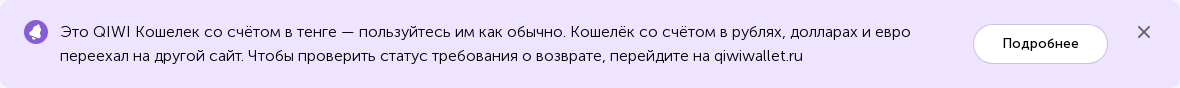
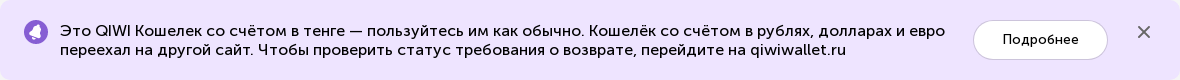
fix: markup for CustomAlert (#591)
* [BF] fix markup for CustomAlert

* [BF] fix markup for CustomAlert

---------

diff --git a/packages/mobile/src/main/ts/custom-alert/CustomAlert.tsx b/packages/mobile/src/main/ts/custom-alert/CustomAlert.tsx
@@ -1,6 +1,5 @@
 import {
   AlertBlockControl,
-  Breaker,
   Card,
   FlexItem,
   FlexPos,
@@ -9,8 +8,6 @@ import {
   Pos,
 } from '@qiwi/pijma-core'
 import React, { FC, ReactNode } from 'react'
-
-import { Paragraph } from '../typography'
 
 export interface CustomAlertProps {
   icon?: ReactNode
@@ -50,9 +47,7 @@ export const CustomAlert: FC<CustomAlertProps> = ({
           >
             {icon && <FlexItem mr={2}>{icon}</FlexItem>}
             <FlexItem my="2px">
-              <Paragraph color={textColor}>
-                <Breaker children={children} />
-              </Paragraph>
+              {children}
             </FlexItem>
             {onHide !== undefined ? (
               <Pos

diff --git a/packages/desktop/src/main/ts/custom-alert/CustomAlert.tsx b/packages/desktop/src/main/ts/custom-alert/CustomAlert.tsx
@@ -1,6 +1,5 @@
 import {
   AlertBlockControl,
-  Breaker,
   Card,
   FlexItem,
   FlexPos,
@@ -9,8 +8,6 @@ import {
   Pos,
 } from '@qiwi/pijma-core'
 import React, { FC, ReactNode } from 'react'
-
-import { Paragraph } from '../typography'
 
 export interface CustomAlertProps {
   icon?: ReactNode
@@ -50,9 +47,7 @@ export const CustomAlert: FC<CustomAlertProps> = ({
           >
             {icon && <FlexItem mr={3}>{icon}</FlexItem>}
             <FlexItem>
-              <Paragraph color={textColor}>
-                <Breaker children={children} />
-              </Paragraph>
+              {children}
             </FlexItem>
             {onHide !== undefined ? (
               <Pos
